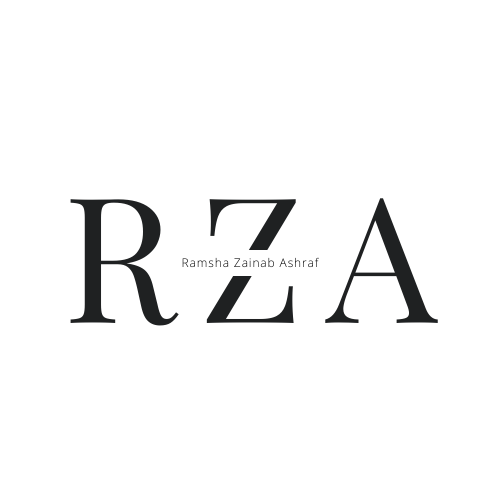
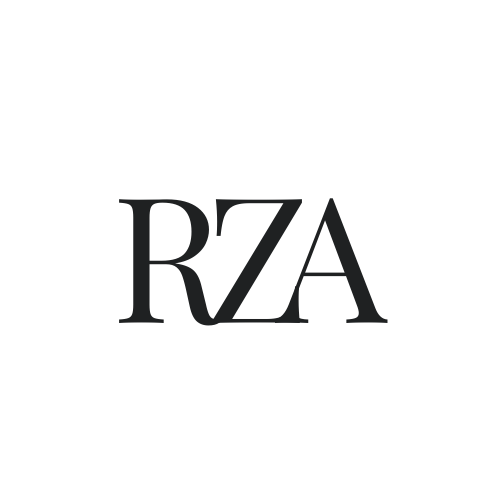
modified style.css

Changed region(s): [[0.15, 0.39, 0.87, 0.66]]

diff --git a/index.html b/index.html
@@ -42,7 +42,7 @@
   <header id="header" class="fixed-top ">
     <div class="container d-flex align-items-center justify-content-between">
 
-      <a href="index.html" class="logo"><img src="assets/img/RZA-1.png" alt="" class="img-fluid"></a>
+      <a href="index.html" class="logo"><img src="assets/img/RZA.png" alt="" class="img-fluid"></a>
       <!-- Uncomment below if you prefer to use an text logo -->
       <!-- <h1 class="logo"><a href="index.html">Folio</a></h1> -->
 

diff --git a/assets/css/style.css b/assets/css/style.css
@@ -199,7 +199,7 @@ p {
   color: #898989;
 }
 #header .logo img {
-  max-height: 10px;
+  max-height: 100px;
 }
 @media (max-width: 992px) {
   #header {
